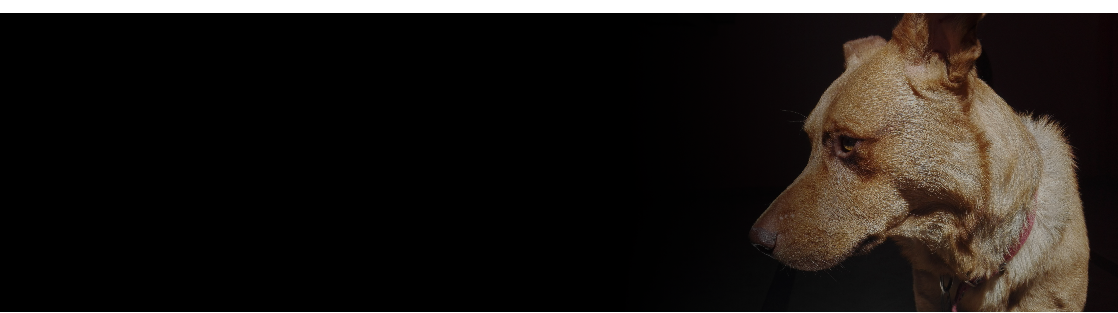
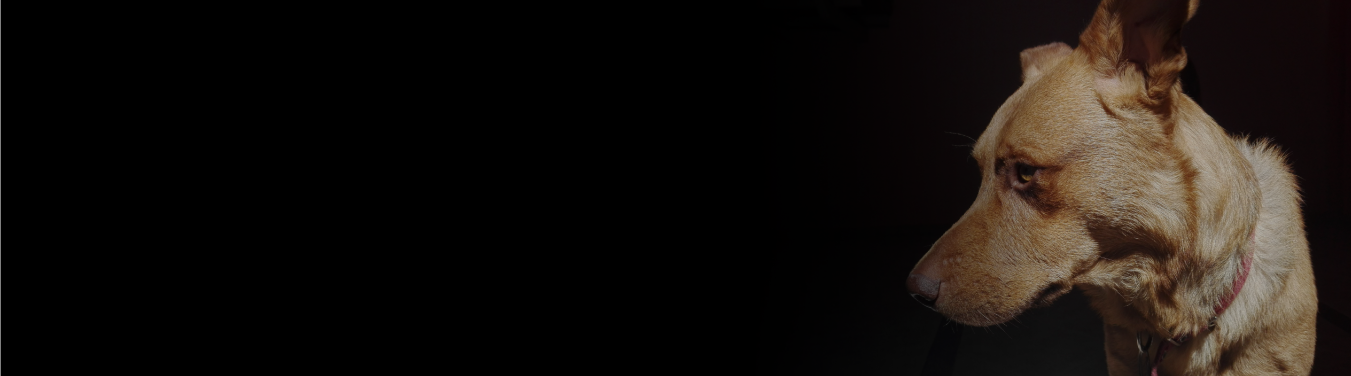
modificacion adoptar

diff --git a/Layouts/potreroDigital_proyeto_grupo5_adoptar.html b/Layouts/potreroDigital_proyeto_grupo5_adoptar.html
@@ -9,87 +9,163 @@
 
     <!-- Bootstrap CSS -->
     <link rel="stylesheet" href="https://cdn.jsdelivr.net/npm/bootstrap@4.5.3/dist/css/bootstrap.min.css" integrity="sha384-TX8t27EcRE3e/ihU7zmQxVncDAy5uIKz4rEkgIXeMed4M0jlfIDPvg6uqKI2xXr2" crossorigin="anonymous">
+    <link rel="stylesheet" href="..\CSS\potreroDigital_proyecto_grupo5_adopta.css">
+    <link rel="stylesheet" href="..\CSS\potreroDigital_proyecto_grupo5_lacasa.css">
+    <link href = "https://fonts.googleapis.com/css2? family = Montserrat: ital, wght @ 0,100; 0,200; 0,300; 0,400; 0,500; 0,600; 0,700; 0,800; 0,900; 1,100; 1,200; 1,300; 1,400 ; 1,500; 1,600; 1,700; 1,800; 1,900 & display = swap "rel =" stylesheet ">
+    <link  rel="icon"   href="..\Logo\Favicon.png" type="image/png" />
 
     <title>Adopta</title>
   </head>
   <body>
 
-  <div class="container">
-    <header
-    class="row">
-      <div class="logo col-3">
-      <img src="C:\Users\Flia Carmona\Documents\GitHub\ProyectoGrupo5_WebAdopcion\Logo\Logo La casa.png" alt="LogoLaCasa">
+  <div class="container-fluid">
+    <header class="header row">
+      <div class="logo col-md-3 col-sm-2">
+      <a href="..\Layouts\potreroDigital_proyecto_grupo5_index.html"><img src="..\Logo\Logo La casa remap.png" alt="LaCasa"></a>
       </div>
-      <nav class="menú col-9">
+      <nav class="menú col-md-9 col-sm-10">
         <ul class="nav justify-content-end">
           <li class="nav-item">
-            <a class="nav-link active" href="#">Adoptá</a>
+            <a class="nav-link" href="..\Layouts\potreroDigital_proyeto_grupo5_adoptar.html">ADOPTAR</a>
           </li>
           <li class="nav-item">
-            <a class="nav-link" href="#">Ayudá</a>
+            <a class="nav-link" href="..\Layouts\potreroDigital_proyecto_grupo5_ayudar.html">AYUDAR</a>
           </li>
           <li class="nav-item">
-            <a class="nav-link" href="#">Participá</a>
+            <a class="nav-link" href="..\Layouts\potreroDigital_proyeto_grupo5_participar.html">PARTICIPAR</a>
           </li>
           <li class="nav-item">
-            <a class="nav-link" href="#">Doná</a>
+            <a class="nav-link" href="..\Layouts\potreroDigital_proyecto_grupo5_donar.html">DONAR</a>
           </li>
         </ul>
       </nav>
 
+
     </header>
 
     <main class="row">
-      <div class="contenedor">
-        <div class="imagen col-12">
+      <div class="separacion6 row"></div>
+
+
+        <div class="imagen">
           <div class="align-self-center">
-  <img src="C:\Users\matias\Documents\MATHIAS\fronte\ProyectoGrupo5_WebAdopcion\Imagenes fotos para slide\Adopta_Header.png"/>
+  <img src="..\Imagenes fotos para slide\Adopta_Header.png"/>
 
 
-  <div class="texto-encima">¡Encontrá la mascota adecuada!</div>
-  <div class="centrado">Respondé nuestro nuevo cuestionario
+  <div class="texto-encima bg-danger">¡Encontrá la mascota adecuada!</div>
+  <div class="centrado bg-primary">Respondé nuestro nuevo cuestionario
 interactivo para encontrar la mascota perfecta
 para adoptar</div>
 </div>
 </div>
-</div>
-<section class="row">
-  <div class="card_1 col-4">
+<button type="button" class="btn btn-outline-danger">Light</button>
+
+
+
+<section>
+  <div class="separacion5 row"></div>
+<div class="row justify-content-center">
+  <div class="card_1 col-3">
     <div class="card" style=";">
-  <img src="C:\Users\matias\Documents\MATHIAS\fronte\ProyectoGrupo5_WebAdopcion\Imagenes fotos para slide\Luli 1.jpg" class="card-img-top" alt="...">
+  <img src="C:\Users\matias\Documents\MATHIAS\fronte\ProyectoGrupo5_WebAdopcion\Imagenes fotos para slide\Luli adoptar.png" class="card-img-top" alt="...">
   <div class="card-body">
-    <h5 class="card-title">Card title</h5>
-    <p class="card-text">Some quick example text to build on the card title and make up the bulk of the card's content.</p>
-    <a href="#" class="btn btn-primary">Go somewhere</a>
+    <h5 class="card-title">Luli</h5>
+    <h6>Hembra - Adulta</h6>
+    <h6>Mascota N°: 001</h6>
+    <a href="#" class="btn btn-primary">ADOPTAR</a>
   </div>
 </div>
 </div>
-<div class="card_2 col-4">
+<div class="card_2 col-3">
   <div class="card" style=";">
-<img src="C:\Users\matias\Documents\MATHIAS\fronte\ProyectoGrupo5_WebAdopcion\Imagenes fotos para slide\Luli 1.jpg"class="card-img-top" alt="...">
+<img src="C:\Users\matias\Documents\MATHIAS\fronte\ProyectoGrupo5_WebAdopcion\Imagenes fotos para slide\Rebeca adoptar.png"class="card-img-top" alt="...">
 <div class="card-body">
-  <h5 class="card-title">Card title</h5>
-  <p class="card-text">Some quick example text to build on the card title and make up the bulk of the card's content.</p>
-  <a href="#" class="btn btn-primary">Go somewhere</a>
+  <h5 class="card-title">Rebeca</h5>
+  <h6>Hembra - Adulta</h6>
+  <h6>Mascota N°: 002</h6>
+  <a href="#" class="btn btn-primary">ADOPTAR</a>
 </div>
 </div>
 </div>
-<div class="card_3 col-4">
+<div class="card_3 col-3">
   <div class="card" style=";">
-<img src="C:\Users\matias\Documents\MATHIAS\fronte\ProyectoGrupo5_WebAdopcion\Imagenes fotos para slide\Luli 1.jpg"class="card-img-top" alt="...">
+<img src="C:\Users\matias\Documents\MATHIAS\fronte\ProyectoGrupo5_WebAdopcion\Imagenes fotos para slide\Coco adoptar.png"class="card-img-top" alt="...">
 <div class="card-body">
-  <h5 class="card-title">Card title</h5>
-  <p class="card-text">Some quick example text to build on the card title and make up the bulk of the card's content.</p>
-  <a href="#" class="btn btn-primary">Go somewhere</a>
+  <h5 class="card-title">Coco</h5>
+  <h6>Macho - Cachorro</h6>
+  <h6>Mascota N°: 003</h6>
+  <a href="#" class="btn btn-primary">ADOPTAR</a>
 </div>
 </div>
 </div>
+</div>
+<div class="separacion row"></div>
+<div class="row justify-content-center">
+<div class="card_1 col-3">
+  <div class="card" style=";">
+<img src="C:\Users\matias\Documents\MATHIAS\fronte\ProyectoGrupo5_WebAdopcion\Imagenes fotos para slide\Pampa adoptar.png" class="card-img-top" alt="...">
+<div class="card-body">
+  <h5 class="card-title">Pampa</h5>
+  <h6>Macho - Cachorro</h6>
+  <h6>Mascota N°: 004</h6>
+  <a href="#" class="btn btn-primary">ADOPTAR</a>
+</div>
+</div>
+</div>
+<div class="card_2 col-3">
+<div class="card" style=";">
+<img src="C:\Users\matias\Documents\MATHIAS\fronte\ProyectoGrupo5_WebAdopcion\Imagenes fotos para slide\Rita adoptar.png"class="card-img-top" alt="...">
+<div class="card-body">
+<h5 class="card-title">Rita</h5>
+<h6>Hembra - Adulta</h6>
+<h6>Mascota N°: 005</h6>
+<a href="#" class="btn btn-primary">ADOPTAR</a>
+</div>
+</div>
+</div>
+<div class="card_3 col-3">
+<div class="card" style=";">
+<img src="C:\Users\matias\Documents\MATHIAS\fronte\ProyectoGrupo5_WebAdopcion\Imagenes fotos para slide\Tincho adoptar.png"class="card-img-top" alt="...">
+<div class="card-body">
+<h5 class="card-title">Tincho</h5>
+<h6>Macho - Cachorro</h6>
+<h6>Mascota N°: 006</h6>
+
+<a href="#" class="btn btn-primary">ADOPTAR</a>
+</div>
+</div>
+</div>
+</div>
+<div class="separacion5 row"></div>
+
+
+
 
 
 
 </section>
     </main>
     <footer>
+      <div class="footer row justify-content-center">
+        <div class="separacion2 col-md-1">
+
+        </div>
+        <div class="isologo col-md-2 col-sm-6">
+        <img src="..\Logo\isologo.png" alt="isologo"></a>
+        </div>
+        <div class="Dirección col-md-4 col-sm-6">
+        <h6 id="direccion">Loteo Montilla, Rawson, San Juan.
+      </h6>
+       <h6 id="direccion">Teléfonos (264) 424 3536 / 3537</h6>
+        </div>
+        <div class="redes sociales col-md-3 col-sm-12">
+          <a href="https://www.facebook.com"target="_blank"><img src="..\Imagenes fotos para slide\facebook.png" alt="facebook"></a>
+          <a href="https://www.instagram.com"target="_blank"><img src="..\Imagenes fotos para slide\instagram.png" alt="instagram"></a>
+          <a href="https://www.youtube.com"target="_blank"><img src="..\Imagenes fotos para slide\youtube.png" alt="youtube"></a>
+          <a href="https://twitter.com/"target="_blank"><img src="..\Imagenes fotos para slide\twitter.png" alt="twitter"></a>
+        </div>
+      </div>
+
 
     </footer>
     <script src="https://code.jquery.com/jquery-3.5.1.slim.min.js" integrity="sha384-DfXdz2htPH0lsSSs5nCTpuj/zy4C+OGpamoFVy38MVBnE+IbbVYUew+OrCXaRkfj" crossorigin="anonymous"></script>

diff --git a/CSS/potreroDigital_proyecto_grupo5_adopta.css b/CSS/potreroDigital_proyecto_grupo5_adopta.css
@@ -17,14 +17,17 @@ footer{
 
   .texto-encima{
       position: absolute;
-      top: 10px;
-      left: 1px;
+      top: 30%;
+
+
       font-size: 50px;
       color:rgb(255, 255, 255);
       font-family:'Montserrat', sans-serif;
       font-weight: 800;
       margin-left: 20px;
       margin-right: 100px;
+      z-index: 2;
+      padding: 1px;
 
   }
   .centrado{
@@ -35,4 +38,12 @@ footer{
       font-family:'Montserrat', sans-serif;
       font-weight: 400;
       margin-left: 20px;
+}
+body{
+  background:url("../Imagenes fotos para slide/background_naranja3.png") no-repeat center;
+  background-position: bottom;
+
+}
+.button{
+  z-index: 2;
 }

diff --git a/CSS/potreroDigital_proyecto_grupo5_lacasa.css b/CSS/potreroDigital_proyecto_grupo5_lacasa.css
@@ -20,7 +20,10 @@ p{
 .separacion5{
   height: 25px;
 }
-
+.separacion6{
+  height: 10vh;
+  width: 100%;
+}
 h3{
   font-weight: 500;
   }
